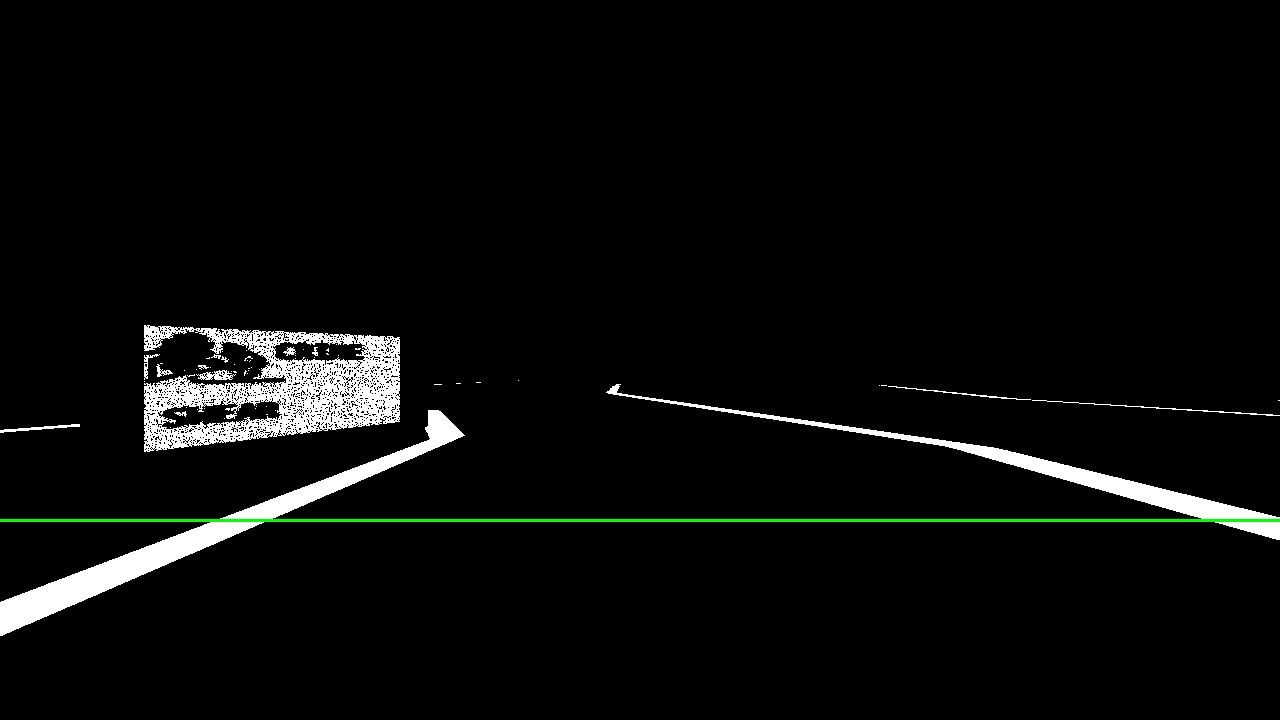
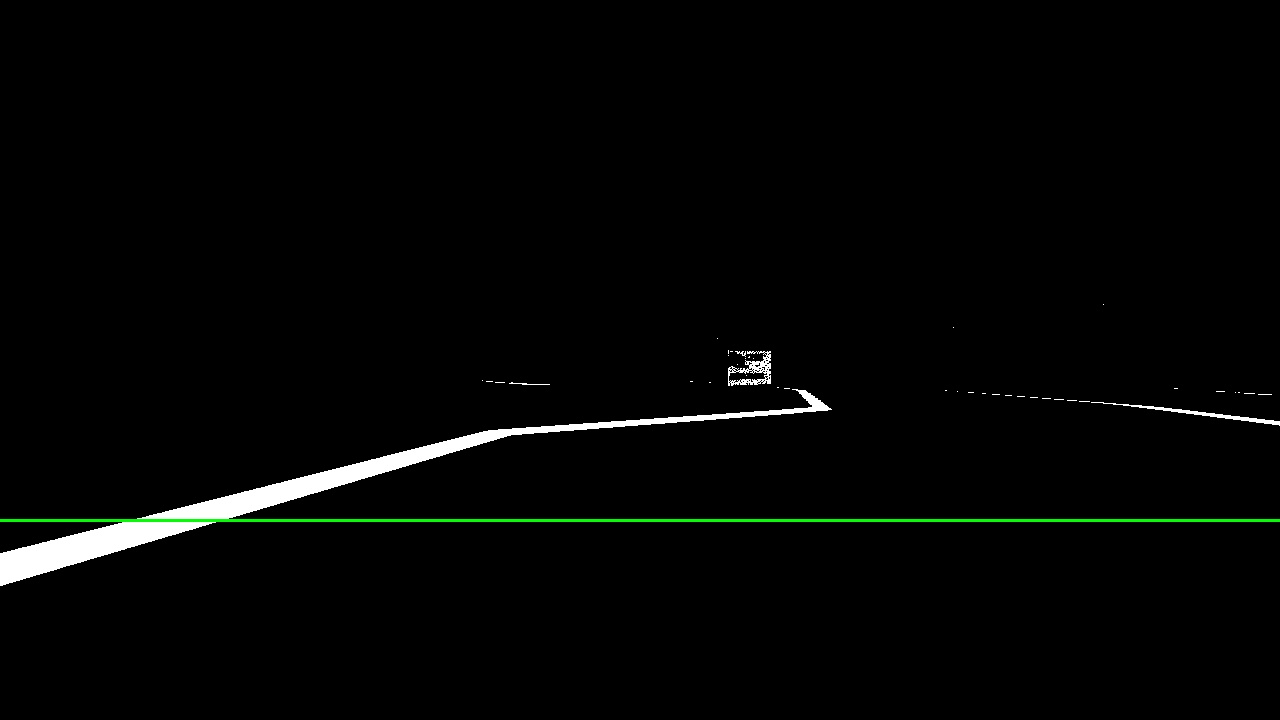
implemented 353 images

diff --git a/index.html b/index.html
@@ -48,13 +48,13 @@
         <p>An autonomous robot built from scratch to race in a Mario Kart themed competition</p>
         <br>
         <p>> open *.png</p>
-        <p class="image-container">
+        <div class="image-container">
             <img src="253_images/image1.png" alt="mario_robot_image1">
             <img src="253_images/image3.png" alt="mario_robot_image3">
             <img src="253_images/image2.png" alt="mario_robot_image2">
             <img src="253_images/image4.png" alt="mario_robot_image4">
             <img src="253_images/image5.png" alt="mario_robot_image5">
-        </p>
+        </div>
         <br>
         <p>> ls links/</p>
         <p>
@@ -92,6 +92,79 @@
         <p>> cat description.txt</p>
         <p>A robot programmed to navigate a virtual obstacle course and solve a crime</p>
         <br>
+        <p>> open road_pid*.gif</p>
+        <div class="image-sequence-container">
+            <div class="image-sequence">
+                <img src="353_images/road1/img1.jpg" alt="road1_image1" class="active">
+                <img src="353_images/road1/img2.jpg" alt="road1_image2">
+                <img src="353_images/road1/img3.jpg" alt="road1_image3">
+                <img src="353_images/road1/img4.jpg" alt="road1_image4">
+                <img src="353_images/road1/img5.jpg" alt="road1_image5">
+                <img src="353_images/road1/img6.jpg" alt="road1_image6">
+                <img src="353_images/road1/img7.jpg" alt="road1_image7">
+                <img src="353_images/road1/img8.jpg" alt="road1_image8">
+            </div>
+            <div class="image-sequence">
+                <img src="353_images/road2/img1.jpg" alt="road2_image1" class="active">
+                <img src="353_images/road2/img2.jpg" alt="road2_image2">
+                <img src="353_images/road2/img3.jpg" alt="road2_image3">
+                <img src="353_images/road2/img4.jpg" alt="road2_image4">
+                <img src="353_images/road2/img5.jpg" alt="road2_image5">
+                <img src="353_images/road2/img6.jpg" alt="road2_image6">
+                <img src="353_images/road2/img7.jpg" alt="road2_image7">
+                <img src="353_images/road2/img8.jpg" alt="road2_image8">
+            </div>
+        </div>
+        <br>
+        <p>> open desert_pid*.gif</p>
+        <div class="image-sequence-container">
+            <div class="image-sequence">
+                <img src="353_images/desert1/img1.jpg" alt="desert1_image1" class="active">
+                <img src="353_images/desert1/img2.jpg" alt="desert1_image2">
+                <img src="353_images/desert1/img3.jpg" alt="desert1_image3">
+                <img src="353_images/desert1/img4.jpg" alt="desert1_image4">
+                <img src="353_images/desert1/img5.jpg" alt="desert1_image5">
+                <img src="353_images/desert1/img6.jpg" alt="desert1_image6">
+                <img src="353_images/desert1/img7.jpg" alt="desert1_image7">
+                <img src="353_images/desert1/img8.jpg" alt="desert1_image8">
+            </div>
+            <div class="image-sequence">
+                <img src="353_images/desert2/img1.jpg" alt="desert2_image1" class="active">
+                <img src="353_images/desert2/img2.jpg" alt="desert2_image2">
+                <img src="353_images/desert2/img3.jpg" alt="desert2_image3">
+                <img src="353_images/desert2/img4.jpg" alt="desert2_image4">
+                <img src="353_images/desert2/img5.jpg" alt="desert2_image5">
+                <img src="353_images/desert2/img6.jpg" alt="desert2_image6">
+                <img src="353_images/desert2/img7.jpg" alt="desert2_image7">
+                <img src="353_images/desert2/img8.jpg" alt="desert2_image8">
+            </div>
+        </div>
+        <br>
+        <p>> open sign_crop*.gif</p>
+        <div class="image-sequence-container">
+            <div class="image-sequence">
+                <img src="353_images/sign1/img1.jpg" alt="sign1_image1" class="active">
+                <img src="353_images/sign1/img2.jpg" alt="sign1_image2">
+                <img src="353_images/sign1/img3.jpg" alt="sign1_image3">
+                <img src="353_images/sign1/img4.jpg" alt="sign1_image4">
+                <img src="353_images/sign1/img5.jpg" alt="sign1_image5">
+                <img src="353_images/sign1/img6.jpg" alt="sign1_image6">
+                <img src="353_images/sign1/img7.jpg" alt="sign1_image7">
+                <img src="353_images/sign1/img8.jpg" alt="sign1_image8">
+                <img src="353_images/sign1/img9.jpg" alt="sign1_image9">
+            </div>
+            <div class="image-sequence">
+                <img src="353_images/sign2/img1.jpg" alt="sign2_image1" class="active">
+                <img src="353_images/sign2/img2.jpg" alt="sign2_image2">
+                <img src="353_images/sign2/img3.jpg" alt="sign2_image3">
+                <img src="353_images/sign2/img4.jpg" alt="sign2_image4">
+                <img src="353_images/sign2/img5.jpg" alt="sign2_image5">
+                <img src="353_images/sign2/img6.jpg" alt="sign2_image6">
+                <img src="353_images/sign2/img7.jpg" alt="sign2_image7">
+                <img src="353_images/sign2/img8.jpg" alt="sign2_image8">
+                <img src="353_images/sign2/img9.jpg" alt="sign2_image9">
+            </div>
+        </div>
         <p>> ls links/</p>
         <p>
             <a href="https://drive.google.com/file/d/10dJ2QrjZod7UEyLq2d78IsoToaAfe3H6/view?usp=share_link"
@@ -144,6 +217,7 @@
 
     <script src="javascript/title.js"></script>
     <script src="javascript/scroll.js"></script>
+    <script src="javascript/gif.js"></script>
 </body>
 
 </html>

diff --git a/css/main.css b/css/main.css
@@ -25,7 +25,7 @@ html {
 .content-section h2 {
     color: #ffffff;
     font-family: 'Courier New', Courier, monospace;
-    font-size: 2.0em;
+    font-size: 2.2em;
     font-weight: normal;
     margin-left: 10px;
     margin-bottom: 20px
@@ -34,7 +34,7 @@ html {
 .content-section h3 {
     color: #ffffff;
     font-family: 'Courier New', Courier, monospace;
-    font-size: 1.5em;
+    font-size: 1.8em;
     font-weight: normal;
     margin-left: 10px;
     margin-bottom: 20px
@@ -75,15 +75,41 @@ html {
     color: #afaeae;
 }
 
-p.image-container {
+.image-container {
     text-align: center;
 }
 
-p.image-container img {
+.image-container img {
     display: inline-block;
     margin-left: auto;
     margin-right: auto;
     width: 30%;
+    height: auto;
+    margin-bottom: 5px;
+}
+
+.image-sequence-container {
+    text-align: center;
+}
+
+.image-sequence {
+    text-align: center;
+    display: inline-block;
+    margin-left: auto;
+    margin-right: auto;
+    width: 45%;
+    height: auto;
+}
+
+.image-sequence img {
+    display: none;
+}
+
+.image-sequence img.active {
+    display: inline-block;
+    margin-left: auto;
+    margin-right: auto;
+    width: 100%;
     height: auto;
     margin-bottom: 5px;
 }

diff --git a/javascript/gif.js b/javascript/gif.js
@@ -1,0 +1,26 @@
+// let currentIndex = 0;
+// const images = document.querySelectorAll('.image-sequence img');
+// const totalImages = images.length;
+
+// function showNextImage() {
+//     images[currentIndex].classList.remove('active');
+//     currentIndex = (currentIndex + 1) % totalImages;
+//     images[currentIndex].classList.add('active');
+// }
+
+// setInterval(showNextImage, 1000); // Change image every second
+const sequences = document.querySelectorAll('.image-sequence');
+
+sequences.forEach(sequence => {
+    const images = sequence.querySelectorAll('img');
+    let currentIndex = 0;
+    const totalImages = images.length;
+
+    function showNextImage() {
+        images[currentIndex].classList.remove('active');
+        currentIndex = (currentIndex + 1) % totalImages;
+        images[currentIndex].classList.add('active');
+    }
+
+    setInterval(showNextImage, 1500); // Change image every second
+});

diff --git a/353_images/annotate_road.py b/353_images/annotate_road.py
@@ -2,17 +2,18 @@
 
 import cv2
 
-img = cv2.imread('road_img.jpg')
+# img = cv2.imread('road_img.jpg')
 # img = cv2.imread('sign_img.jpg')
+img = cv2.imread('road_img2.jpg')
 cv2.imshow('image', img)
 cv2.waitKey(0)
-# cv2.imwrite('road2/img1.jpg', img)
+cv2.imwrite('road2/img1.jpg', img)
 
 gray = cv2.cvtColor(img, cv2.COLOR_BGR2GRAY)
 mask = cv2.inRange(gray, 200, 255)
 cv2.imshow('image', mask)
 cv2.waitKey(0)
-# cv2.imwrite('road2/img2.jpg', mask)
+cv2.imwrite('road2/img2.jpg', mask)
 
 height, width = img.shape[:2]
 left = right = -1
@@ -27,34 +28,40 @@ mask_rgb = cv2.cvtColor(mask, cv2.COLOR_GRAY2BGR)
 cv2.line(mask_rgb, (0, height - buffer), (width, height - buffer), (0, 255, 0), 2)
 cv2.imshow('image', mask_rgb)
 cv2.waitKey(0)
-# cv2.imwrite('road2/img3.jpg', mask_rgb)
+cv2.imwrite('road2/img3.jpg', mask_rgb)
 
 cv2.circle(mask_rgb, (left, height - buffer), 5, (0, 0, 255), -1)
 cv2.circle(mask_rgb, (right, height - buffer), 5, (0, 0, 255), -1)
 cv2.imshow('image', mask_rgb)
 cv2.waitKey(0)
-# cv2.imwrite('road2/img4.jpg', mask_rgb)
+cv2.imwrite('road2/img4.jpg', mask_rgb)
 
 cv2.line(img, (0, height - buffer), (width, height - buffer), (0, 255, 0), 2)
 cv2.circle(img, (left, height - buffer), 5, (0, 0, 255), -1)
 cv2.circle(img, (right, height - buffer), 5, (0, 0, 255), -1)
 cv2.imshow('image', img)
 cv2.waitKey(0)
-# cv2.imwrite('road2/img5.jpg', img)
+cv2.imwrite('road2/img5.jpg', img)
 
-centre = (left + right) // 2
+centre = 0
+if right - left > 150:
+    centre = (left + right) // 2
+elif left < width // 2:
+    centre = (left + width) // 2
+elif left >= width // 2:
+    centre = right // 2
 cv2.circle(img, (centre, height - buffer), 5, (0, 0, 255), -1)
 cv2.imshow('image', img)
 cv2.waitKey(0)
-# cv2.imwrite('road2/img6.jpg', img)
+cv2.imwrite('road2/img6.jpg', img)
 
 cv2.rectangle(img, (width // 2, 0), (width // 2, height), (0, 255, 0), 2)
 cv2.imshow('image', img)
 cv2.waitKey(0)
-# cv2.imwrite('road2/img7.jpg', img)
+cv2.imwrite('road2/img7.jpg', img)
 
 cv2.line(img, (centre, height - buffer), (width // 2, height - buffer), (255, 0, 0), 2)
 cv2.putText(img, "error", (width // 2 + 10, height - buffer - 15), cv2.FONT_HERSHEY_SIMPLEX, 0.9, (255, 0, 0), 2)
 cv2.imshow('image', img)
 cv2.waitKey(0)
-# cv2.imwrite('road2/img8.jpg', img)
+cv2.imwrite('road2/img8.jpg', img)
